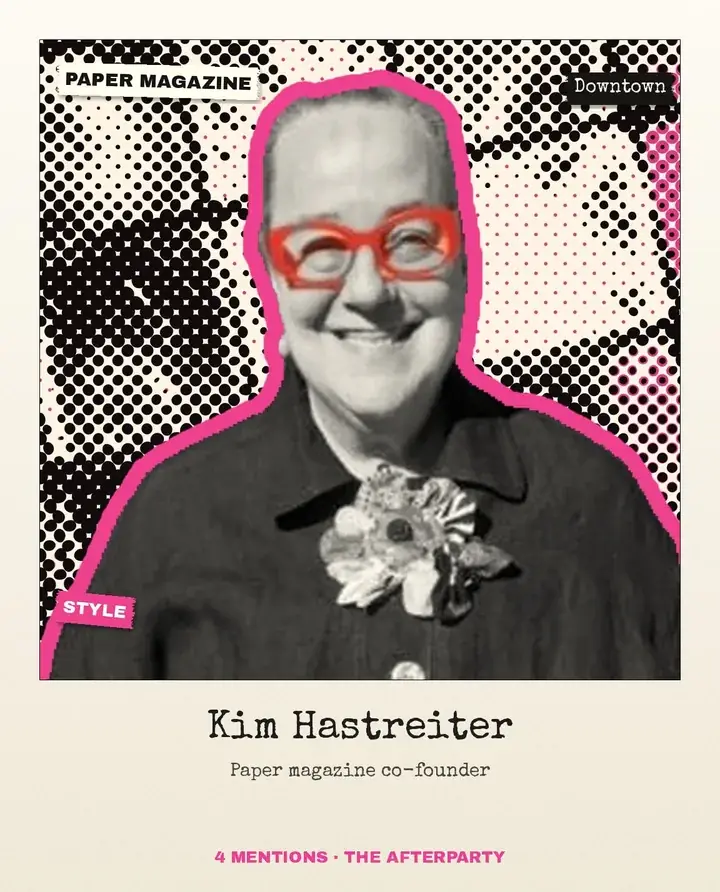
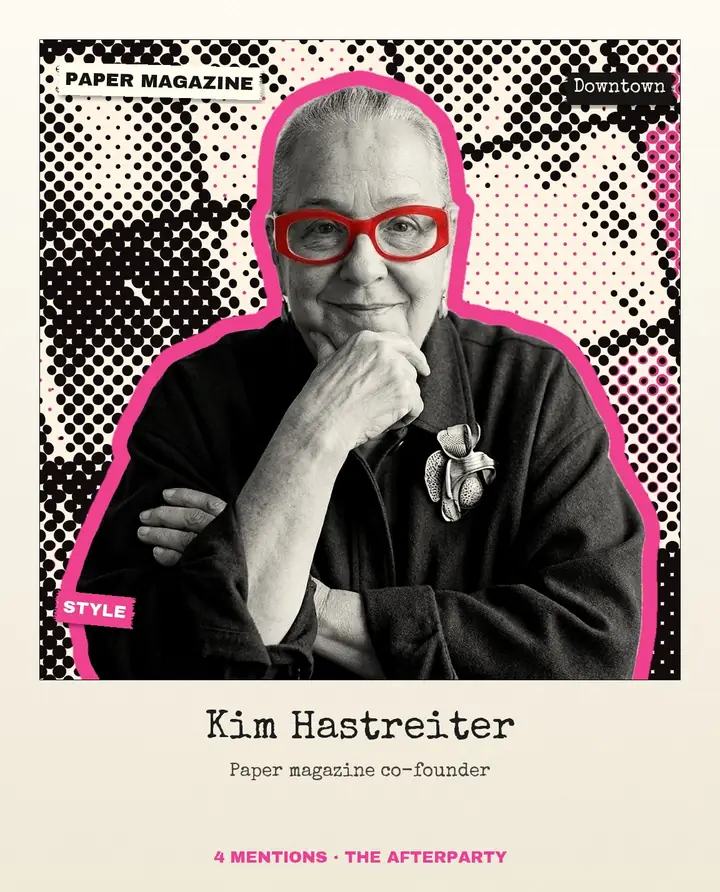
Kim Hastreiter: new person polaroid and header photo, option A (Lisa: A, 20 Nov 2026)
Realistic Gemini portrait from stills of her own interviews (likeness only): chin on hand, warm smile,
red glasses, whole head and hands in the frame. Replaces the soft 2016 Commons photo that blew up into
a blurry header. Credit now "Illustration made with Gemini, not a photo".

Claude-Session: https://claude.ai/code/session_0192FespqusBPU85qQTESFDW

diff --git a/src/data/person-portraits.ts b/src/data/person-portraits.ts
@@ -866,7 +866,7 @@ export const PERSON_PORTRAITS: Record<string, PersonPortrait> = {
   "marc-shaiman": { photo: marcShaimanPhoto, polaroid: marcShaimanPolaroid, focus: "28%", credit: "Portrait after a photo by Philip Romano, 2026 (CC BY-SA 4.0; our version is CC BY-SA 4.0 too), in our photocopy style" },
   "maureen-dowd": { photo: maureenDowdPhoto, polaroid: maureenDowdPolaroid, focus: "28%", credit: "Portrait after a photo by Frypie, 2024 (CC BY-SA 4.0; our version is CC BY-SA 4.0 too), in our photocopy style" },
   "natalie-schafer": { photo: natalieSchaferPhoto, polaroid: natalieSchaferPolaroid, focus: "28%", credit: "Portrait after a studio publicity photo, 1942 (public domain), in our photocopy style" },
-  "kim-hastreiter": { photo: kimHastreiterPhoto, polaroid: kimHastreiterPolaroid, focus: "28%", credit: "Portrait after a photo by Jmerlwhat, 2016 (CC BY-SA 4.0; our version is CC BY-SA 4.0 too), in our photocopy style" },
+  "kim-hastreiter": { photo: kimHastreiterPhoto, polaroid: kimHastreiterPolaroid, focus: "28%", credit: "Illustration made with Gemini, not a photo" },
   "pepper-labeija": { photo: pepperLabeijaPhoto, polaroid: pepperLabeijaPolaroid, focus: "30%", credit: "Illustration made with Gemini, not a photo" },
   "cookie-mueller": { photo: cookieMuellerPhoto, polaroid: cookieMuellerPolaroid, focus: "30%", credit: "Illustration made with Gemini, not a photo" },
   "dorian-corey": { photo: dorianCoreyPhoto, polaroid: dorianCoreyPolaroid, focus: "30%", credit: "Illustration made with Gemini, not a photo" },
